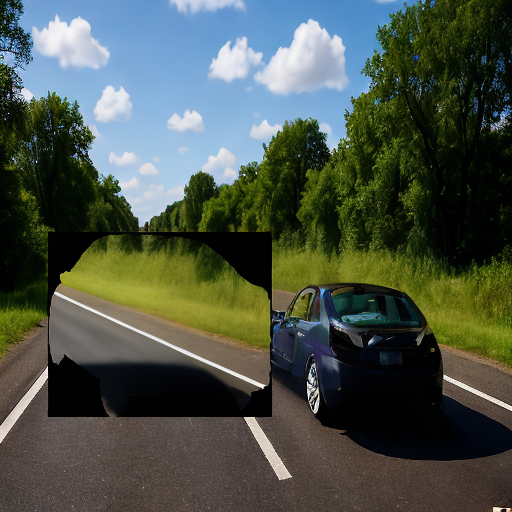
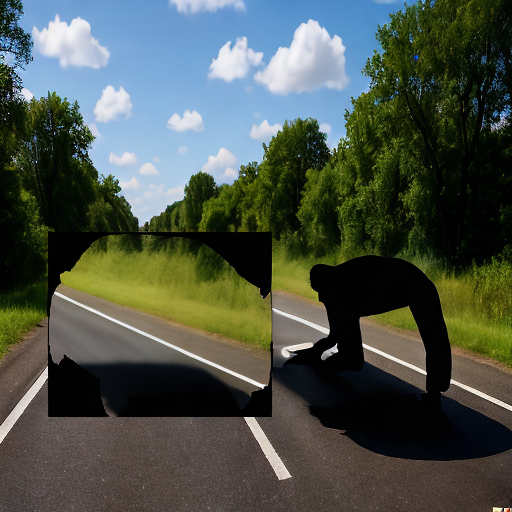
Sixth Commit

diff --git a/src/modules/inpainting.py b/src/modules/inpainting.py
@@ -61,103 +61,103 @@
 
 #     return out.images[0]
 
-# # Suggested paper method (Works)
-# from diffusers import StableDiffusionInstructPix2PixPipeline, EulerAncestralDiscreteScheduler, StableDiffusionInpaintPipeline
-# from PIL import Image
-# import cv2
-
-
-
-# def inpaint_image(image_path, mask_path, instruction, device="cpu", model_name="paint-by-inpaint/general-finetuned-mb"):
-    
-#     image = Image.open(image_path).convert("RGB")
-#     mask = cv2.imread(mask_path, cv2.IMREAD_GRAYSCALE)
-    
-#     pipe = StableDiffusionInstructPix2PixPipeline.from_pretrained(
-#         model_name
-#     ).to(device)
-#     pipe.scheduler = EulerAncestralDiscreteScheduler.from_config(pipe.scheduler.config)
-
-#     # Applying edit
-#     output = pipe(
-#         prompt=instruction,
-#         image=image,
-#         guidance_scale=7.5,
-#         image_guidance_scale=1.5,
-#         num_inference_steps=50,
-#         num_images_per_prompt=1
-#     )
-
-#     return output.images[0]  # PIL.Image
-
-# Another googled approach (Under testing)
+# Suggested paper method (Works)
+from diffusers import StableDiffusionInstructPix2PixPipeline, EulerAncestralDiscreteScheduler, StableDiffusionInpaintPipeline
+from PIL import Image
 import cv2
-from PIL import Image, ImageChops
-
-from controlnet_union import ControlNetModel_Union
-from diffusers import AutoencoderKL, StableDiffusionXLControlNetPipeline, TCDScheduler, ControlNetUnionModel
 
 
 
-def inpaint_image(image_path, mask_path):
+def inpaint_image(image_path, mask_path, instruction, device="cpu", model_name="paint-by-inpaint/general-finetuned-mb"):
+    
     image = Image.open(image_path).convert("RGB")
     mask = cv2.imread(mask_path, cv2.IMREAD_GRAYSCALE)
     
-    width, height = image.size
-    min_dimension = min(width, height)
+    pipe = StableDiffusionInstructPix2PixPipeline.from_pretrained(
+        model_name
+    ).to(device)
+    pipe.scheduler = EulerAncestralDiscreteScheduler.from_config(pipe.scheduler.config)
 
-    left = (width - min_dimension) / 2
-    top = (height - min_dimension) / 2
-    right = (width + min_dimension) / 2
-    bottom = (height + min_dimension) / 2
-
-    final_source = image.crop((left, top, right, bottom))
-    final_source = final_source.resize((512, 512), Image.LANCZOS).convert("RGBA")
-
-    mask = Image.fromarray(mask).convert("L")  # Converting to grayscale PIL image
-
-    binary_mask = mask.point(lambda p: 255 if p > 0 else 0)
-    inverted_mask = ImageChops.invert(binary_mask)
-
-    alpha_image = Image.new("RGBA", final_source.size, (0, 0, 0, 0))
-    cnet_image = Image.composite(final_source, alpha_image, inverted_mask)
-
-    vae = AutoencoderKL.from_pretrained("madebyollin/sdxl-vae-fp16-fix").to("cpu")
-
-    # controlnet_model = ControlNetUnionModel.from_pretrained(
-    #     "xinsir/controlnet-union-sdxl-1.0"
-    # )
-
-    controlnet_model = ControlNetModel_Union.from_pretrained(
-        "xinsir/controlnet-union-sdxl-1.0"
+    # Applying edit
+    output = pipe(
+        prompt=instruction,
+        image=image,
+        guidance_scale=7.5,
+        image_guidance_scale=1.5,
+        num_inference_steps=50,
+        num_images_per_prompt=1
     )
 
-    pipe = StableDiffusionXLControlNetPipeline.from_pretrained(
-        "SG161222/RealVisXL_V5.0_Lightning",
-        vae=vae,
-        custom_pipeline="OzzyGT/pipeline_sdxl_fill",
-        controlnet=controlnet_model,
-        low_cpu_mem_usage=True
-    ).to("cpu")
-    pipe.scheduler = TCDScheduler.from_config(pipe.scheduler.config)
+    return output.images[0]  # PIL.Image
 
-    prompt = "high quality"
-    (
-        prompt_embeds,
-        negative_prompt_embeds,
-        pooled_prompt_embeds,
-        negative_pooled_prompt_embeds,
-    ) = pipe.encode_prompt(prompt, "cpu", True)
+# # Another googled approach (Under testing)
+# import cv2
+# from PIL import Image, ImageChops
 
-    image = pipe(
-        prompt_embeds=prompt_embeds,
-        negative_prompt_embeds=negative_prompt_embeds,
-        pooled_prompt_embeds=pooled_prompt_embeds,
-        negative_pooled_prompt_embeds=negative_pooled_prompt_embeds,
-        image=cnet_image,
-    )
+# from controlnet_union import ControlNetModel_Union
+# from diffusers import AutoencoderKL, StableDiffusionXLControlNetPipeline, TCDScheduler, ControlNetUnionModel
 
-    image = image.convert("RGBA")
-    cnet_image.paste(image, (0, 0), binary_mask)
 
-    cnet_image.save("../results/example_1/inpainted.png")
+
+# def inpaint_image(image_path, mask_path):
+#     image = Image.open(image_path).convert("RGB")
+#     mask = cv2.imread(mask_path, cv2.IMREAD_GRAYSCALE)
+    
+#     width, height = image.size
+#     min_dimension = min(width, height)
+
+#     left = (width - min_dimension) / 2
+#     top = (height - min_dimension) / 2
+#     right = (width + min_dimension) / 2
+#     bottom = (height + min_dimension) / 2
+
+#     final_source = image.crop((left, top, right, bottom))
+#     final_source = final_source.resize((512, 512), Image.LANCZOS).convert("RGBA")
+
+#     mask = Image.fromarray(mask).convert("L")  # Converting to grayscale PIL image
+
+#     binary_mask = mask.point(lambda p: 255 if p > 0 else 0)
+#     inverted_mask = ImageChops.invert(binary_mask)
+
+#     alpha_image = Image.new("RGBA", final_source.size, (0, 0, 0, 0))
+#     cnet_image = Image.composite(final_source, alpha_image, inverted_mask)
+
+#     vae = AutoencoderKL.from_pretrained("madebyollin/sdxl-vae-fp16-fix").to("cpu")
+
+#     # controlnet_model = ControlNetUnionModel.from_pretrained(
+#     #     "xinsir/controlnet-union-sdxl-1.0"
+#     # )
+
+#     controlnet_model = ControlNetModel_Union.from_pretrained(
+#         "xinsir/controlnet-union-sdxl-1.0"
+#     )
+
+#     pipe = StableDiffusionXLControlNetPipeline.from_pretrained(
+#         "SG161222/RealVisXL_V5.0_Lightning",
+#         vae=vae,
+#         custom_pipeline="OzzyGT/pipeline_sdxl_fill",
+#         controlnet=controlnet_model,
+#         low_cpu_mem_usage=True
+#     ).to("cpu")
+#     pipe.scheduler = TCDScheduler.from_config(pipe.scheduler.config)
+
+#     prompt = "high quality"
+#     (
+#         prompt_embeds,
+#         negative_prompt_embeds,
+#         pooled_prompt_embeds,
+#         negative_pooled_prompt_embeds,
+#     ) = pipe.encode_prompt(prompt, "cpu", True)
+
+#     image = pipe(
+#         prompt_embeds=prompt_embeds,
+#         negative_prompt_embeds=negative_prompt_embeds,
+#         pooled_prompt_embeds=pooled_prompt_embeds,
+#         negative_pooled_prompt_embeds=negative_pooled_prompt_embeds,
+#         image=cnet_image,
+#     )
+
+#     image = image.convert("RGBA")
+#     cnet_image.paste(image, (0, 0), binary_mask)
+
+#     cnet_image.save("../results/example_1/inpainted.png")

diff --git a/src/main.py b/src/main.py
@@ -42,44 +42,45 @@ if __name__ == "__main__":
 
     parsed = {'object': 'car', 'action': 'move', 'location': 'left', 'lighting': 'night'}  # For, testing
 
-    # # Resizing: To match the inpaiting model's requirements
-    # image = cv2.imread("./inputs/scene.png")
+    # Resizing: To match the inpaiting model's requirements
+    image = cv2.imread("./inputs/scene.png")
 
-    # image_resized = cv2.resize(image, (512, 512), interpolation=cv2.INTER_LANCZOS4)
-    # cv2.imwrite("./inputs/scene_resized.png", image_resized)
+    image_resized = cv2.resize(image, (512, 512), interpolation=cv2.INTER_LANCZOS4)
+    cv2.imwrite("./inputs/scene_resized.png", image_resized)
 
     image_path = "./inputs/scene_resized.png"
 
-    # # Detection (Grounding DINO via Replicate)
-    # # bbox = detection.detect_object(image_path, parsed['object'], api_keys['replicate_api_key'])
-    # bbox = detection.detect_object(image_path, parsed['object'])
+    # Detection
+    # bbox = detection.detect_object(image_path, parsed['object'], api_keys['replicate_api_key'])
+    bbox = detection.detect_object(image_path, parsed['object'])
 
+    # # For, testing
     # draw_bbox_on_image(image_path, bbox)
 
-    # # print("Detected BBox:", bbox)
+    # print("Detected BBox:", bbox) # For, testing
 
     # bbox = [248, 232, 472, 417] # For, testing
 
-    # # Segmentation (SAM via Hugging Face Transformers)
-    # mask = detection.segment_object(image_path, bbox)
+    # Segmentation (SAM via Hugging Face Transformers)
+    mask = detection.segment_object(image_path, bbox)
 
-    # # cv2.imwrite("../results/example_1/mask.png", (mask * 255).astype("uint8"))
-    # # cv2.imwrite("../results/example_1/mask_1.png", mask.astype("uint8"))
+    binary_mask = (mask > 0.5).astype("uint8")*255
 
-    # binary_mask = (mask > 0.5).astype("uint8")
+    # Dilating the mask to cover the shadow
+    kernel = cv2.getStructuringElement(cv2.MORPH_ELLIPSE, (25, 25))  # You can tune the size
+    dilated_mask = cv2.dilate(binary_mask, kernel, iterations=1)
+
+    cv2.imwrite("../results/example_1/mask.png", dilated_mask)
+
+    # Inpainting (To remove the object)
+    inpainted_url = inpainting.inpaint_image(image_path, "../results/example_1/mask_dilated.png", f"Remove the object {parsed['object']} and its shadow, and restore the scene")
     
-    # cv2.imwrite("../results/example_1/mask.png", binary_mask * 255)
-
-    # Inpainting (TO remove the object)
-    # inpainted_url = inpainting.inpaint_image(image_path, "../results/example_1/mask.png", f"Remove the object {parsed['object']} and restore the scene without the said {parsed['object']} object")
+    utils.download_image(inpainted_url[0], "../results/example_1/inpainted.png")
     
-    # For, testing
-    inpainting.inpaint_image(image_path, "../results/example_1/mask.png")
+    # # For, testing
+    # inpainting.inpaint_image(image_path, "../results/example_1/mask.png")
 
-    # utils.download_image(inpainted_url[0], "../results/example_1/inpainted.png")
-
-    # inpainted_url.save("../results/example_1/inpainted_removal.png")
-
+    # # Pre-mature code
     # # Relocation (toy example shift)
     # bbox_int = list(map(int, bbox))
     # shift = (-200, 0)
@@ -93,13 +94,6 @@ if __name__ == "__main__":
     # )
 
     # cv2.imwrite("../results/example_1/relocated.png", relocated)
-
-    # # Inpainting (TO remove the object)
-    # inpainted_url = inpainting.inpaint_image(image_path, "../results/example_1/mask.png", f"Add the object {parsed['object']} to the scene", device="cuda", model_name="paint-by-instruct/general-finetuned-mb")
-
-    # utils.download_image(inpainted_url[0], "../results/example_1/inpainted.png")
-
-    # inpainted_url.save("../results/example_1/inpainted_addition.png")
 
     # # Relighting
     # relighted_url = relighting.relight_image("../results/example_1/relocated.png", "../results/example_1/mask.png",  "relight the scene to match" + parsed['lighting'], api_keys['replicate_api_key'])
